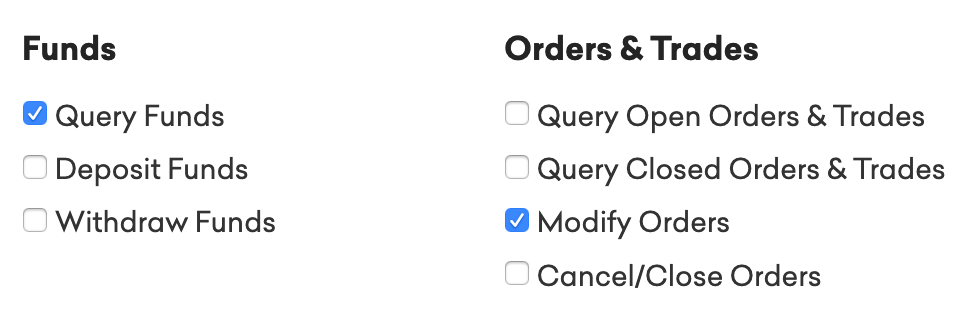
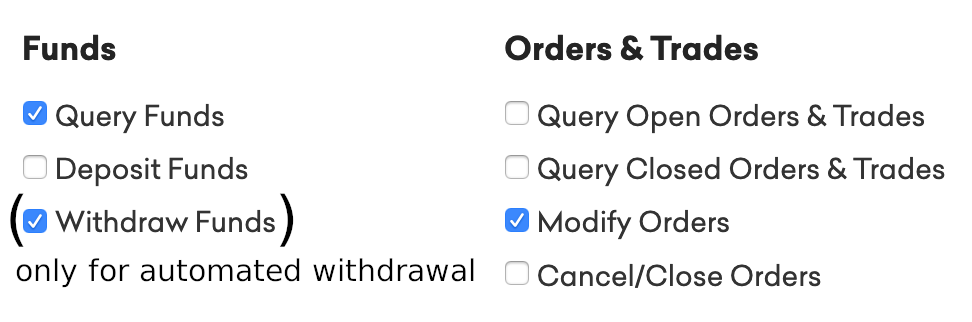
Withdrawal script (#4)
* Withdrawal script. Added a script that lets you withdraw through Kraken API if the charged fees are under a certain level

* refactored code and added validation functionality

* Enhanced README to reflect the option to also withdraw in an automated manner

* fixed typo

Changed region(s): [[0.0, 0.8075, 0.4938, 0.9006], [0.0, 0.5901, 0.0617, 0.7764], [0.2778, 0.5901, 0.3086, 0.7764]]

diff --git a/withdraw.js b/withdraw.js
@@ -1,0 +1,47 @@
+const assert = require('assert')
+const Kraken = require('kraken-api')
+
+const {
+  KRAKEN_API_KEY: key,
+  KRAKEN_API_SECRET: secret,
+  KRAKEN_MAX_REL_FEE: max_fee,
+  KRAKEN_WITHDRAW_KEY: wdr_key
+} = process.env
+
+assert(key && secret, 'Provide the KRAKEN_API_KEY and KRAKEN_API_SECRET environment variables.')
+assert(max_fee && wdr_key, 'Provide the KRAKEN_MAX_REL_FEE and KRAKEN_WITHDRAW_KEY environment variables.')
+
+// https://www.kraken.com/features/api
+const kraken = new Kraken(key, secret)
+const crypto = 'XBT'
+const validate = process.argv[2] === '--validate'
+
+;(async () => {
+    // Get withdrawal information
+    // URL: https://api.kraken.com/0/private/WithdrawInfo
+    const withdrawdetails = { asset: crypto, key: wdr_key, amount: 0 } 
+    try {
+        const { result: { method, limit, fee } } = await kraken.api('WithdrawInfo', withdrawdetails);
+        const rel_fee = 1/parseFloat(limit)*parseFloat(fee)
+        console.log(`💡  Relative fee of withdrawal amount: ${(rel_fee*100).toFixed(2)}%`)
+
+        // Place withdrawal when fee is low enough (relatively)
+        if (rel_fee < max_fee/100) {
+            console.log(`⏏  Withdraw ${limit} ${crypto} now.`)
+            const withdraw = { asset: crypto, key: wdr_key, amount: limit } 
+            if (!validate) {
+                try {
+                    const { result: { refid } } = await kraken.api('Withdraw', withdraw)
+                    if (refid) console.log(`📎  Withdrawal reference ID: ${refid}`)
+                } catch (err) {
+                    console.log(`\n🚨  Failure:`, err.message)
+                }
+            }
+        }else{
+            console.log(`\n❌ Don\'t withdraw now. Fee is too high. Max rel. fee: ${parseFloat(max_fee).toFixed(2)}%`);
+        }
+    } catch (err) {
+        console.log(`\n🚨  Failure:`, err.message)
+    }
+    if (validate) console.log('\n🚨  THIS WAS JUST A VALIDATION RUN, NO WITHDRAWAL HAS BEEN PLACED!')
+})()

diff --git a/README.md b/README.md
@@ -5,6 +5,21 @@ First off: Here's to you, [Bittr](https://getbittr.com/) – you will be missed!
 This script is not a full replacement for the incredible service Bittr offered, but it's a start:
 Automate your Stacking Sats process by regularly placing buy orders using the [Kraken API](https://www.kraken.com/features/api).
 
+Holding significant amounts on an exchange is never a good idea. You should regularly take ownership of your coins by withdrawing to your own wallet. This can either be done manually or it can be automated. The script provided here will only withdraw to a previously defined Bitcoin address if the relative fees do not exceed a certain limit.
+*It is optional to run the witdrawal script.*
+
+**Example 1**
+- Max. relative fee: 0.5%
+- Fixed Kraken fee: ₿ 0.00050
+- Balance: ₿ 0.06000
+- \> No withdrawal since fee actual (0.83%) is too high
+
+**Example 2**
+- Max. relative fee: 0.5%
+- Fixed Kraken fee: ₿ 0.00050
+- Balance: ₿ 0.12000
+- \> Withdrawal executed since actual fee (0.42%) is low enough
+
 ## ✋ Caveat
 
 You need to install the dependency [kraken-api](https://github.com/nothingisdead/npm-kraken-api), which is a third-party package.
@@ -20,6 +35,11 @@ Generate a new API key dedicated for stacking using the "Query Funds" and "Modif
 
 ![Kraken API Key Permissions](./api-permissions.png)
 
+Only check the "Withdraw Funds" option if you plan to automatically withdraw Bitcoin from Kraken.
+
+## 🔑 Withrawal method
+In case you plan to automatically withdraw from Kraken, a withdrawal method must first be defined. If you already set up a methode you can reuse it. Otherwise generate a new one by going to **Funding** > **Bitcoin (XBT) withdraw** > **Add address**. The description field will later be used as an environment variable in the script.
+
 ## 📦 Setup
 
 Prerequisite: At least the current LTS version of [Node.js](https://nodejs.org/).
@@ -33,10 +53,15 @@ npm install
 Setup the environment variables for the script:
 
 ```sh
+# used to authenticate with Kraken
 export KRAKEN_API_KEY="apiKeyFromTheKrakenSettings"
 export KRAKEN_API_SECRET="privateKeyFromTheKrakenSettings"
+# used only for buying
 export KRAKEN_API_FIAT="USD" # the governmental shitcoin you are selling
 export KRAKEN_BUY_AMOUNT=21 # fiat amount you trade for the future of money
+# used only for withdrawing
+export KRAKEN_MAX_REL_FEE=0.5 # maximum fee in % that you are willing to pay
+export KRAKEN_WITHDRAW_KEY="descriptionOfWithdrawalAddress"
 ```
 
 Use a dry run to test the script and see the output without placing an order:
@@ -55,6 +80,20 @@ You should see something like this sample output:
 
 💸 Order: buy 0.21212121 XBTUSD @ limit 21000.1
 📎 Transaction ID: 2121212121
+```
+
+To test the withdrawal of funds to your defined address run:
+```sh
+npm run test-withdraw-sats
+```
+You should see something like this:
+```text
+💡  Relative fee of withdrawal amount: 5.57%
+
+❌ Don't withdraw now. Fee is too high. Max rel. fee: 0.50%
+
+🚨  THIS WAS JUST A VALIDATION RUN, NO WITHDRAWAL HAS BEEN PLACED!
+
 ```
 
 ## 🤑 Stack sats
@@ -97,6 +136,37 @@ To: $recipient $result" | /usr/sbin/sendmail $recipient
 Make it executable with `chmod +x stack-sats.sh` and go wild.
 
 [Stay humble!](https://twitter.com/matt_odell/status/1117222441867194374) 🙏
+
+## 🔑 Withraw sats
+
+It is recommended to run the withdrawal script every time you stacked sats:
+
+```sh
+npm run withdraw-sats
+```
+Since it can take a couple seconds or minutes for your order to fill, you should run the following script maybe a couple hours later after your `stack-sats` script ran. Just set up a second cron job which executes the following script.
+
+Here's a sample `withdraw-sats.sh` script:
+
+```sh
+#!/bin/bash
+set -e
+
+# hide deprecation warning
+export NODE_OPTIONS="--no-deprecation"
+
+export KRAKEN_API_KEY="apiKeyFromTheKrakenSettings"
+export KRAKEN_API_SECRET="privateKeyFromTheKrakenSettings"
+export KRAKEN_MAX_REL_FEE=0.5
+export KRAKEN_WITHDRAW_KEY="descriptionOfWithdrawalAddress"
+
+BASE_DIR=$(cd `dirname $0` && pwd)
+cd $BASE_DIR/stacking-sats-kraken
+result=$(npm run withdraw-sats 2>&1)
+echo $result
+```
+
+Make it executable with `chmod +x withdraw-sats.sh` and add it to your cron schedule.
 
 ## ⚡ RaspiBlitz Integration
 
